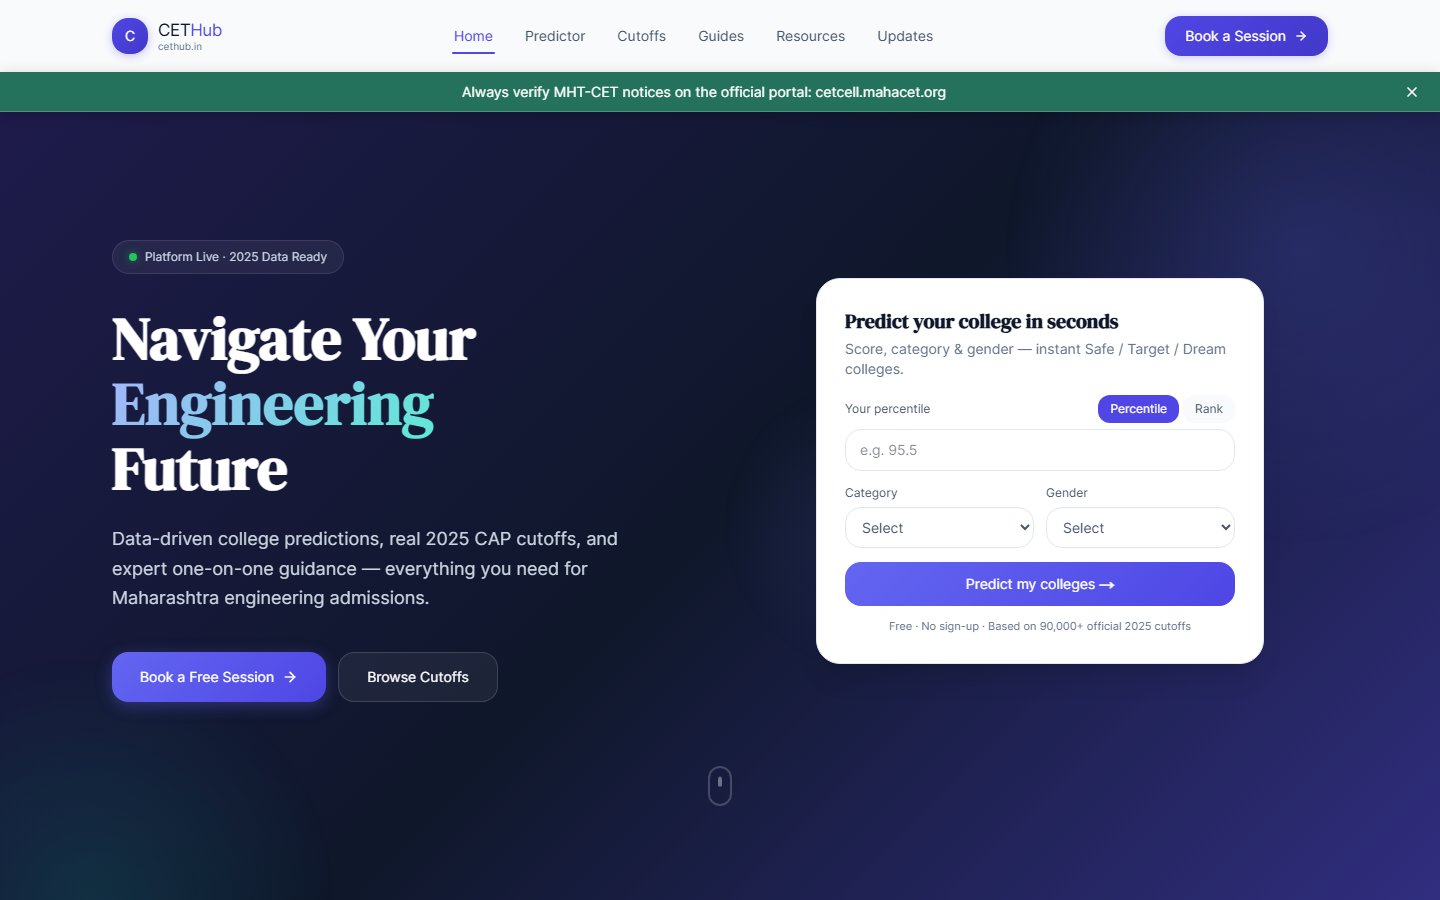
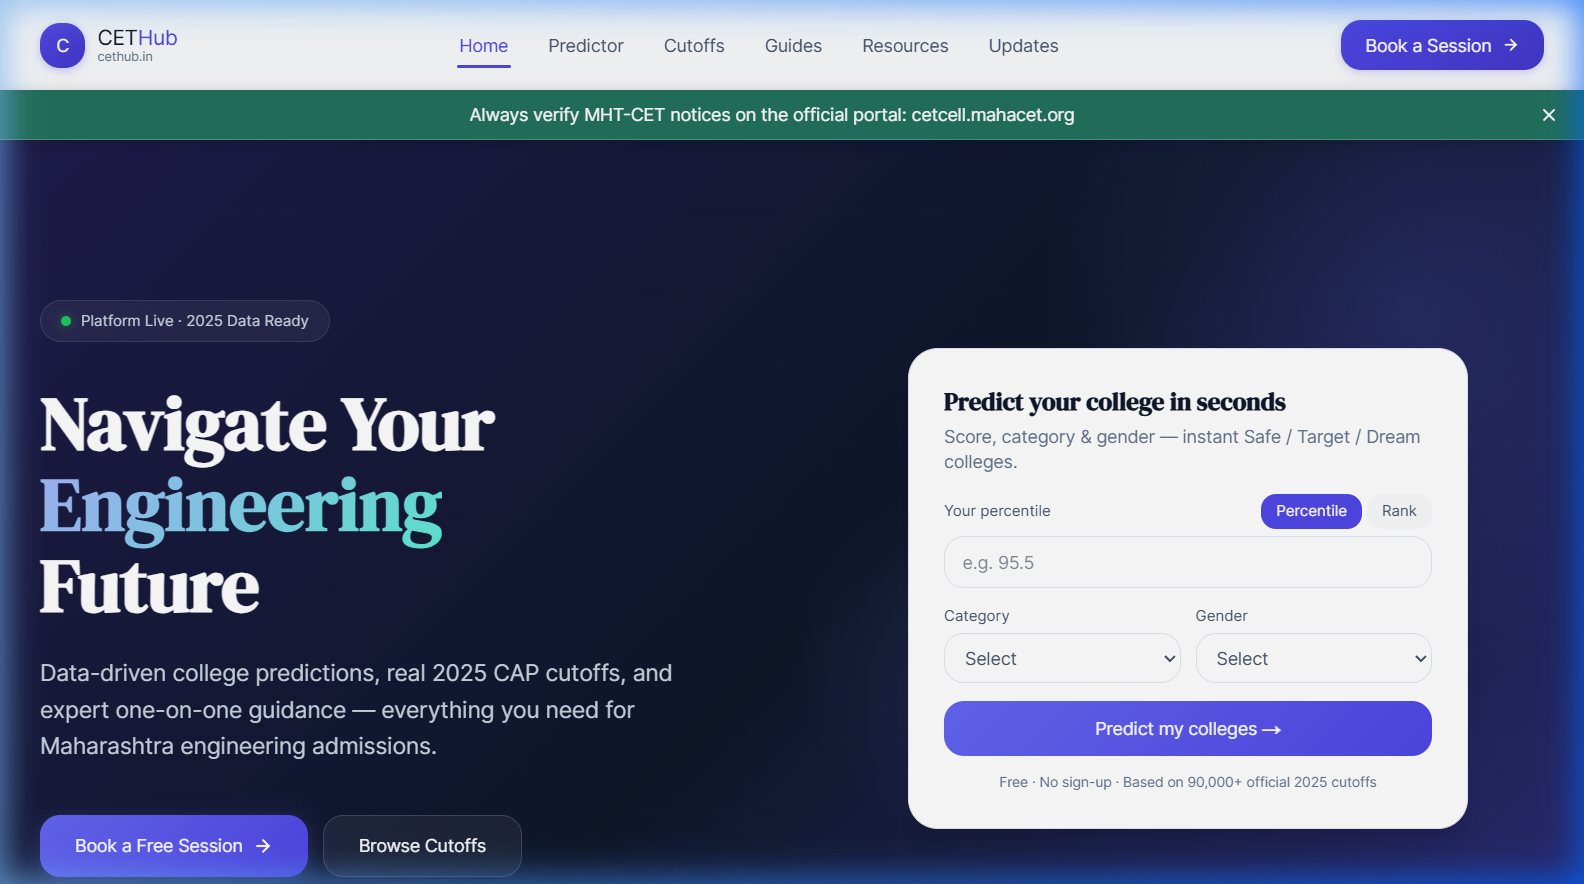
feat: replace CETHub mockup with real site screenshot in project card

diff --git a/index.html b/index.html
@@ -313,28 +313,12 @@
         <!-- CETHub -->
         <article class="project-card" data-project="1">
           <div class="project-image project-image--cethub">
-            <div class="project-mockup project-mockup--browser">
-              <div class="browser-frame">
-                <div class="browser-chrome">
-                  <span class="browser-dot"></span>
-                  <span class="browser-dot"></span>
-                  <span class="browser-dot"></span>
-                  <span class="browser-url">cethub.in</span>
-                </div>
-                <div class="browser-body">
-                  <div class="mockup-row mockup-row--header"></div>
-                  <div class="mockup-grid">
-                    <div class="mockup-cell mockup-cell--accent"></div>
-                    <div class="mockup-cell"></div>
-                    <div class="mockup-cell"></div>
-                    <div class="mockup-cell"></div>
-                    <div class="mockup-cell mockup-cell--accent"></div>
-                    <div class="mockup-cell"></div>
-                  </div>
-                  <div class="mockup-bar"></div>
-                </div>
-              </div>
-            </div>
+            <img
+              src="/assets/cethub-preview.jpg"
+              alt="CETHub Website Preview"
+              loading="lazy"
+              style="width:100%;height:100%;object-fit:cover;object-position:top;"
+            />
             <span class="project-status project-status--live" aria-label="Status: Live">
               <span class="status-dot"></span> Live
             </span>